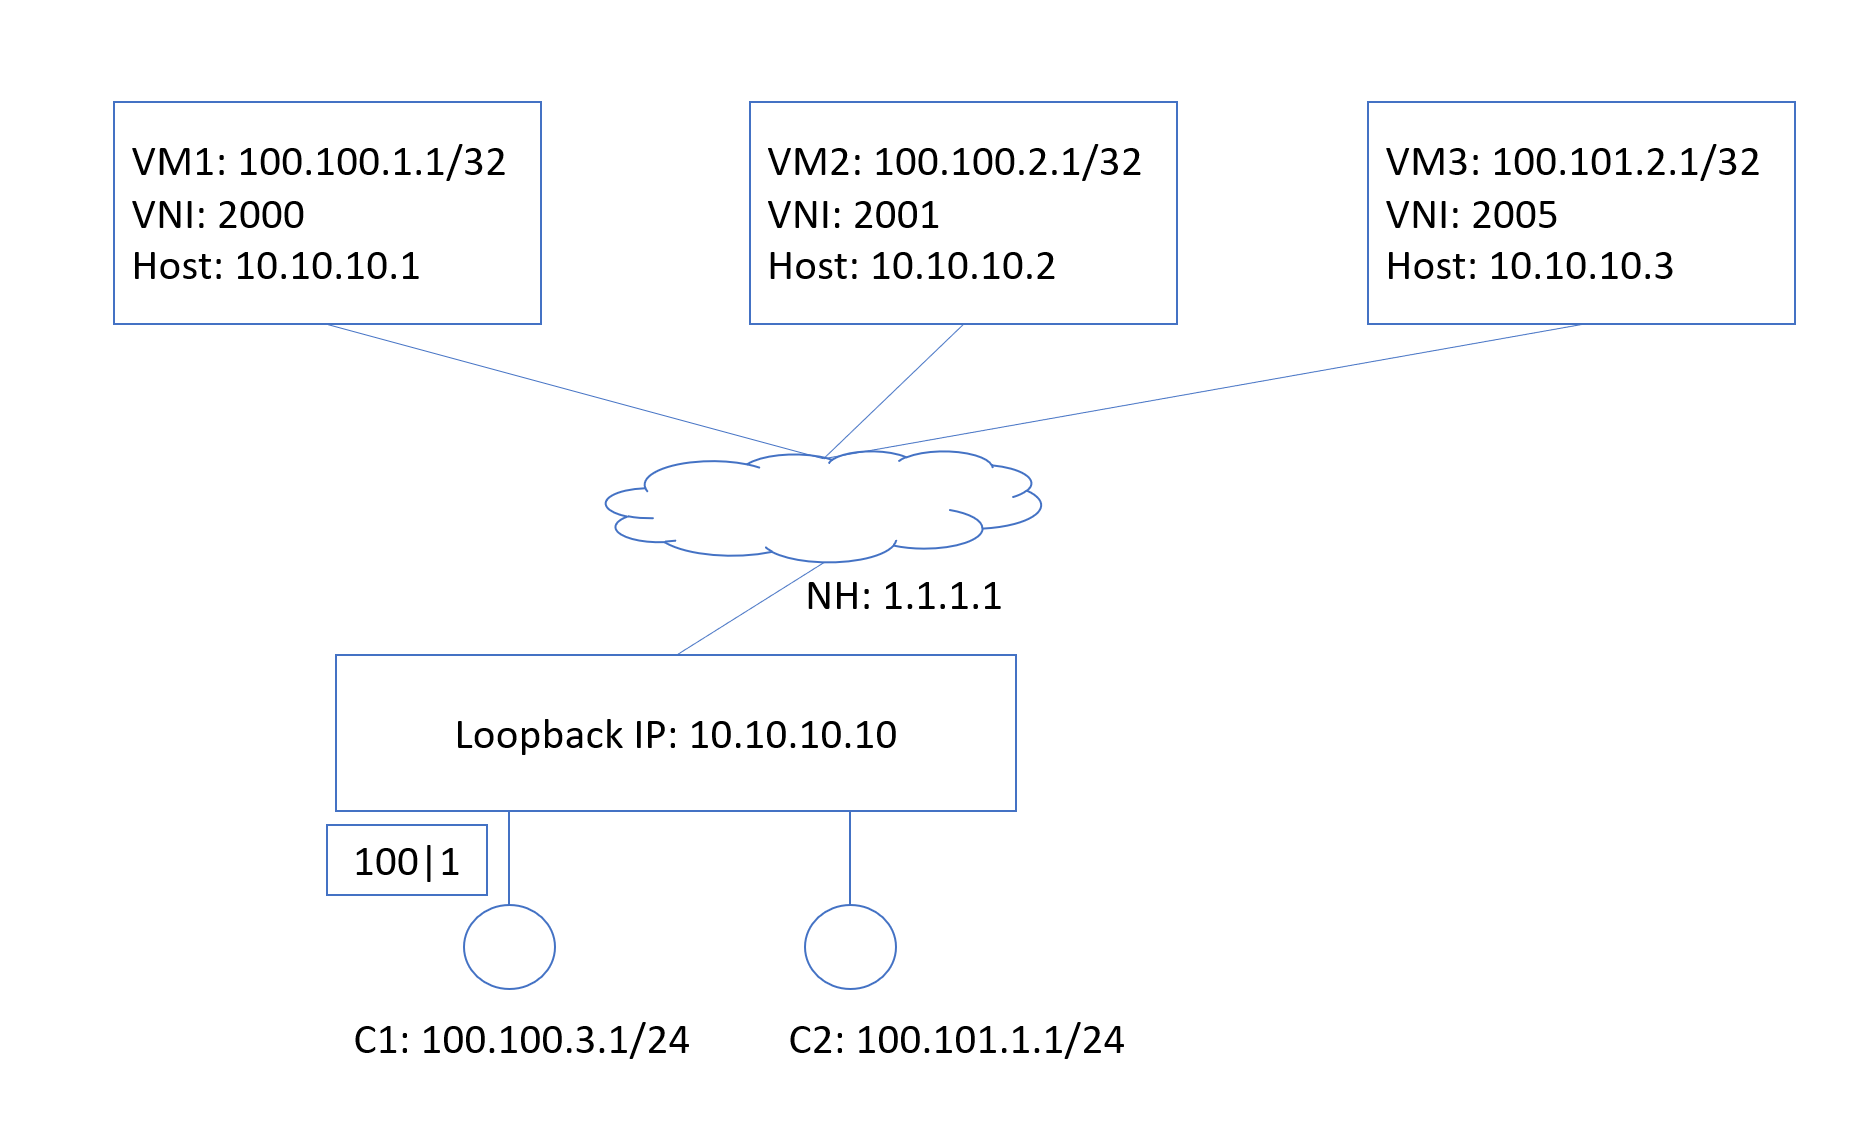
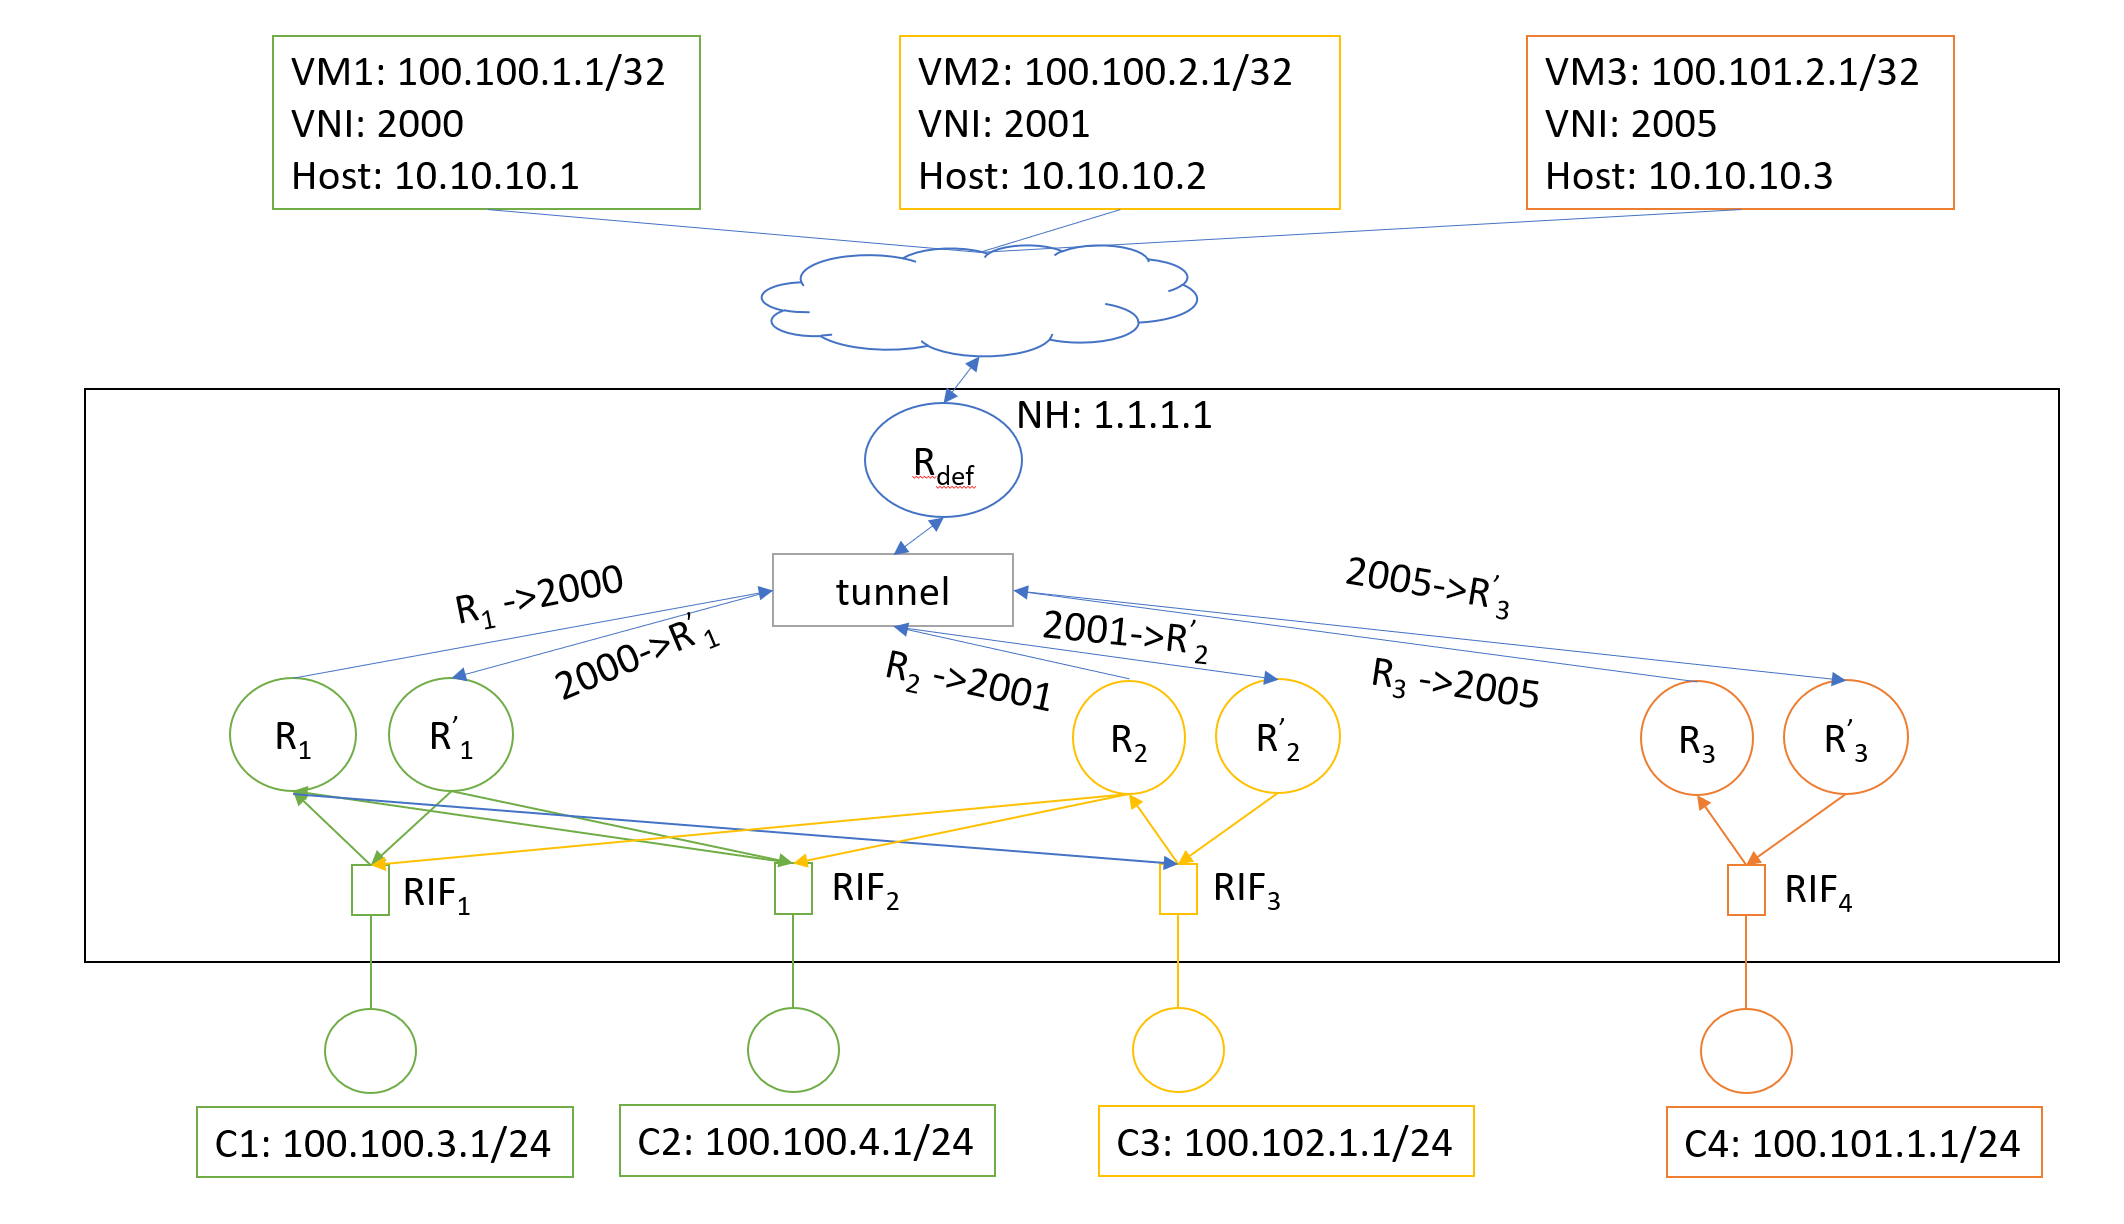
separating ingress and egress vrf for vnet

diff --git a/doc/SAI-Proposal-QinQ-VXLAN.md b/doc/SAI-Proposal-QinQ-VXLAN.md
@@ -19,11 +19,11 @@ The SAI representation of the QinQ-VxLAN-translator router is below:
 
 ![qinq-to-vxlan](figures/qinq-to-vxlan.png "Figure 2: QinQ to VxLAN usage scenario")
 __Figure 1: QinQ to VxLAN usage scenario__
- 
+
 The packet processing pipeline is below:
 ![qinq-to-vxlan-pipeline](figures/qinq-to-vxlan-pipeline.png "Figure 2: QinQ to VxLAN SAI Pipeline")
 __Figure 2: QinQ to VxLAN SAI Pipeline__
- 
+
 ## Packet Format ##
 
 - QinQ -> vxlan: For the vxlan packet , the inner L2 header is a dummy header without vlan header.
@@ -38,7 +38,7 @@ __Figure 2: QinQ to VxLAN SAI Pipeline__
    typedef enum _sai_switch_attr_t
    {
        ...
-       
+
        /**
         * @brief TPID for Outer vlan id
         *
@@ -47,7 +47,7 @@ __Figure 2: QinQ to VxLAN SAI Pipeline__
         * @default 0x88a8
         */
        SAI_SWITCH_ATTR_TPID_OUTER_VLAN;
-       
+
        /**
         * @brief TPID for Inner vlan id
         *
@@ -56,7 +56,7 @@ __Figure 2: QinQ to VxLAN SAI Pipeline__
         * @default 0x8100
         */
        SAI_SWITCH_ATTR_TPID_INNER_VLAN;
-       
+
    } sai_switch_attr_t;
 ```
 
@@ -66,7 +66,7 @@ __Figure 2: QinQ to VxLAN SAI Pipeline__
     typedef enum _sai_router_interface_type_t
     {
         ...
-        
+
         /** QinQ Router Interface Type */
         SAI_ROUTER_INTERFACE_TYPE_QINQ_PORT;
     } sai_router_interface_type_t;
@@ -103,7 +103,7 @@ __Figure 2: QinQ to VxLAN SAI Pipeline__
     typedef enum _sai_tunnel_map_type_t
     {
         ...
-        
+
         /** TUNNEL Map VNI to Virtual Router ID */
         SAI_TUNNEL_MAP_TYPE_VNI_TO_VIRTUAL_ROUTER_ID = 0x00000006,
 
@@ -140,27 +140,35 @@ __Figure 2: QinQ to VxLAN SAI Pipeline__
 ```
 ## Examples
 
-### QinQ to Vxlan example
+### Baremetal example
 
-We have customer 1 (C1) server (100.100.3.1/24) with outer vlan 100 and inner vlan tag 1 want to 
-talk to VM1 (100.100.1.1/32) and VM2 (100.100.2.1/32). VM1 is in host
-10.10.10.1 and VM2 is in host 10.10.10.2. VM1 is in VXLAN id 2000 and 
-VM2 is in VXLAN id 2001. We have customer 2 (C2) server (100.101.1.1/24) wants to talk to 
+We have customer 1 (C1) server (100.100.3.1/24) and (C2) (100.100.4.1/24)
+talk to VM1 (100.100.1.1/32). VM1 is in host 10.10.10.1 with VXLAN id 2000.
+
+We have customer 3 (C3) server (100.102.1.1/24) talk to VM2 (100.100.2.1/32). 
+VM2 is in host 10.10.10.2 with VXLAN id 2001.
+
+We have customer 4 (C4) server (100.101.1.1/24) wants to talk to
 VM3 (100.101.2.1/32). VM3 is in host 10.10.10.3 with VXLAN id 2005.
 
-When we use riot VXLAN tunnel, the default inner destination mac in the 
+VXLAN 2000 and VXLAN id 2001 are peering with each other, so that C1 and C2 can 
+also talk to C3 and VM2, and vice verse.
+
+When we use riot VXLAN tunnel, the default inner destination mac in the
 tunnel encap is the ```SAI_SWITCH_ATTR_VXLAN_DEFAULT_ROUTER_MAC```, e.g, "00:11:11:11:11:11"
 
-To reach VM1 from C1, the switch needs to encap the packet with 
-outer IP 10.10.10.1 and VXLAN id 2000. To reach VM2, the switch needs to encap the packet with 
-outer IP 10.10.10.2 with VXLAN id 2001. For VM2, it we also need to specify
-the inner destination mac "00:12:34:56:78:9a". To reach VM3 from C2, the switch
+To reach VM1 from C1, the switch needs to encap the packet with
+outer IP 10.10.10.1 and VXLAN id 2000. To reach VM2 for C1, the switch needs to encap the packet with
+outer IP 10.10.10.2 with VXLAN id 2001. For VM2, we also need to specify
+the inner destination mac "00:12:34:56:78:9a". To reach VM3 from C4, the switch
 needs to encap packet with outer IP 10.10.10.3 and VXLAN id 2005.
 
 To reach C1 from VM1 and VM2, VM host will send VXLAN packet
 with VXLAN id 2000. The switch will decap the packet, using the VXLAN id 2000
-to map to the currect virtual router and then lookup the inner destination IP
-(100.100.3.1/24). To reach C2 from VM3, VM host will send VXLAN packet
+to map to virtual router R1' and then lookup the inner destination IP
+(100.100.3.1/24). To reach C3 from VM1 and VM2, VM host will send VXLAN id 2001.
+The swithc will decap the packet, using VXLAN id 2001 to map to virtual router R2' and then
+lookup the inner destination IP. To reach C4 from VM3, VM host will send VXLAN packet
 with VXLAN id 2005.
 
 
@@ -172,68 +180,102 @@ switch_attr.id = SAI_SWITCH_ATTR_VXLAN_DEFAULT_ROUTER_MAC;
 switch_attr.value.mac = "00:11:11:11:11:11";
 sai_switch_api->set_switch_attribute(switch_id, &switch_attr);
 
-sai_attribute_t switch_attr;
 switch_attr.id = SAI_SWITCH_ATTR_VXLAN_DEFAULT_PORT;
 switch_attr.value.u16 = 12345;
 sai_switch_api->set_switch_attribute(switch_id, &switch_attr);
 
 /*
- * Setup underlay default route, the nexthop is 1.1.1.1 
+ * Setup underlay default route, the nexthop is 1.1.1.1
  */
-status = create_route("0.0.0.0/0", default_virtual_route, "1.1.1.1");
+status = create_route("0.0.0.0/0", default_vrid, "1.1.1.1");
 
 /*
  * Setup overlay route
  */
 
 /* create virtual router for C1 */
-create_virtual_router(&virtual_router_id_1);
+create_vrid(&vrid_1_ingress);
+create_vrid(&vrid_1_egress);
 
-/* create virtual router for C2 */
-create_virtual_router(&virtual_router_id_2);
+/* create virtual router for C3 */
+create_vrid(&vrid_2_ingress);
+create_vrid(&vrid_2_egress);
 
-/* create qinq router interface for C1 */
-status = create_router_interface_qinq(virtual_router_id_1, 100, 1, &rif_1);
+/* create virtual router for C4 */
+create_vrid(&vrid_3_ingress);
+create_vrid(&vrid_3_egress);
+
+/* create port-based router interface for C1 */
+status = create_router_interface_port(vrid_1_ingress, port_id_1, &rif_1);
+status = create_neighbor("100.100.3.1", rif_1, "00:00:00:00:00:01");
 
 /* create port-based router interface for C2 */
-status = create_router_interface_port(virtual_router_id_2, port_id, &rif_2)
+status = create_router_interface_port(vrid_1_ingress, port_id_2, &rif_2);
+status = create_neighbor("100.100.4.1", rif_2, "00:00:00:00:00:02");
 
-/* create tunnel */
-status = create_tunnel(virtual_router_id_1, 2000, &tunnel_id, &tunnel_encap_map_id, &tunnel_decap_map_id);
+/* create port-based router interface for C3 */
+status = create_router_interface_port(vrid_2_ingress, port_id_3, &rif_3);
+status = create_neighbor("100.102.1.1", rif_3, "00:00:00:00:00:03");
 
-/* add tunnel map entry */
-status = create_encap_tunnel_map_entry(tunnel_encap_map_id, virtual_router_id_2, 2005);
-status = create_decap_tunnel_map_entry(tunnel_decap_map_id, virtual_router_id_2, 2005);
+/* create port-based router interface for C4 */
+status = create_router_interface_port(vrid_3_ingress, port_id_4, &rif_4);
+status = create_neighbor("100.101.1.1", rif_4, "00:00:00:00:00:04");
+
+/* create tunnel with tunnel map for C1 and C2 */
+status = create_tunnel(vrid_1_ingress, vrid_1_egress, 2000, &tunnel_id, &tunnel_encap_map_id, &tunnel_decap_map_id);
+
+/* add tunnel map entry for C3 */
+status = create_encap_tunnel_map_entry(tunnel_encap_map_id, vrid_2_ingress, 2001);
+status = create_decap_tunnel_map_entry(tunnel_decap_map_id, vrid_2_egress, 2001);
+
+/* add tunnel map entry for C4 */
+status = create_encap_tunnel_map_entry(tunnel_encap_map_id, vrid_3_ingress, 2005);
+status = create_decap_tunnel_map_entry(tunnel_decap_map_id, vrid_3_egress, 2005);
 
 /* create tunnel decap for VM to customer server */
 status = create_tunnel_termination(tunnel_id, "10.10.10.10", &term_table_id);
 
 /* create tunnel nexthop for VM1, VM2 and VM3 */
-status = create_nexthop_tunnel(virtual_router_id_1, "10.10.10.1", 0, NULL, tunnel_id, &nexthop_id_1);
-status = create_nexthop_tunnel(virtual_router_id_1, "10.10.10.2", 2001, "00:12:34:56:78:9a", tunnel_id, &nexthop_id_2);
-status = create_nexthop_tunnel(virtual_router_id_2, "10.10.10.3", 0, NULL, tunnel_id, &nexthop_id_3);
+status = create_nexthop_tunnel("10.10.10.1", 0, NULL, tunnel_id, &nexthop_id_1);
+status = create_nexthop_tunnel("10.10.10.2", 2001, "00:12:34:56:78:9a", tunnel_id, &nexthop_id_2);
+status = create_nexthop_tunnel("10.10.10.3", 0, NULL, tunnel_id, &nexthop_id_3);
 
-/* create routes for VM1, VM2 and VM3 */
-status = create_route("100.100.1.1/32", virtual_router_id_1, nexthop_id_1);
-status = create_route("100.100.2.1/32", virtual_router_id_1, nexthop_id_2);
-status = create_route("100.101.2.1/32", virtual_router_id_2, nexthop_id_3);
+/* create routes for vrid 1 ingress */
+status = create_route("100.100.1.1/32", vrid_1_ingress, nexthop_id_1);
+status = create_route("100.100.2.1/32", vrid_1_ingress, nexthop_id_2);
+status = create_route("100.100.3.0/24", vrid_1_ingress, rif_1);
+status = create_route("100.100.4.0/24", vrid_1_ingress, rif_2);
+status = create_route("100.102.1.0/24", vrid_1_ingress, rif_3);
 
-/* create the route to the customer C1 */
-status = create_route("100.100.3.0/24", virtual_router_id_1, rif_1);
-status = create_neighbor("100.100.3.1", rif_1, "00:00:00:00:00:01");
+/* create routes for vrid 1 egress */
+status = create_route("100.100.3.0/24", vrid_1_egress, rif_1);
+status = create_route("100.100.4.0/24", vrid_1_egress, rif_2);
 
-/* create the route to the customer C2 */
-status = create_route("100.101.1.0/24", virtual_router_id_2, rif_2);
-status = create_neighbor("100.101.1.1", rif_2, "00:00:00:00:00:02");
+/* create routes for vrid 2 ingress */
+status = create_route("100.100.1.1/32", vrid_1_ingress, nexthop_id_1);
+status = create_route("100.100.2.1/32", vrid_1_ingress, nexthop_id_2);
+status = create_route("100.100.3.0/24", vrid_1_ingress, rif_1);
+status = create_route("100.100.4.0/24", vrid_1_ingress, rif_2);
+status = create_route("100.102.1.0/24", vrid_1_ingress, rif_3);
+
+/* create routes for vrid 2 egress */
+status = create_route("100.102.1.0/24", vrid_1_egress, rif_3);
+
+/* create routes fro vrid 3 ingress */
+status = create_route("100.101.2.1/32", vrid_3_ingress, nexthop_id_3);
+status = create_route("100.101.1.0/24", vrid_1_ingress, rif_4);
+
+/* create routes for vrid 3 egress */
+status = create_route("100.101.1.0/24", vrid_1_egress, rif_4);
 ```
 
 Create QinQ router interface
 
 ```
 sai_status_t create_router_interface_qinq(
-    sai_object_id_t overlay_router_id, 
-    uint32_t out_vlan, 
-    uint32_t in_vlan, 
+    sai_object_id_t overlay_router_id,
+    uint32_t out_vlan,
+    uint32_t in_vlan,
     sai_object_id_t *router_intf)
 {
     sai_status_t status;
@@ -261,7 +303,7 @@ Create port-based router interface
 
 ```
 sai_status_t create_router_interface_port(
-    sai_object_id_t overlay_router_id, 
+    sai_object_id_t overlay_router_id,
     sai_object_id_t port_id,
     sai_object_id_t *router_intf)
 {
@@ -304,7 +346,7 @@ sai_object_id_t create_encap_tunnel_map()
 
 sai_object_id_t create_encap_tunnel_map_entry(
     sai_object_id_t tunnel_map_id,
-    sai_object_id_t router_id, 
+    sai_object_id_t router_id,
     sai_uint32_t vni)
 {
     sai_status_t status;
@@ -346,10 +388,10 @@ sai_object_id_t create_decap_tunnel_map()
 
     return tunnel_map_id;
 }
-    
+
 sai_object_id_t create_decap_tunnel_map_entry(
     sai_object_id_t tunnel_map_id,
-    sai_object_id_t router_id, 
+    sai_object_id_t router_id,
     sai_uint32_t vni)
 {
     sai_status_t status;
@@ -382,8 +424,9 @@ Create tunnel
 
 ```
 sai_status_t create_tunnel(
-    sai_object_id_t overlay_id,
-    sai_uint32_t vni, 
+    sai_object_id_t ingress_router_id,
+    sai_object_id_t egress_outer_id,
+    sai_uint32_t vni,
     sai_object_id_t *tunnel_id,
     sai_object_id_t *tunnel_encap_map_id,
     sai_object_id_t *tunnel_decap_map_id)
@@ -396,31 +439,25 @@ sai_status_t create_tunnel(
   attr.value.s32 = SAI_TUNNEL_TYPE_VXLAN;
   tunnel_attrs.push_back(attr);
 
-  sai_tunnel_map_list_t encap_list;
-  sai_tunnel_map_list_t decap_list;
-  sai_tunnel_map_t encap_map;
-  sai_tunnel_map_t decap_map;
-
   *tunnel_encap_map_id = create_encap_tunnel_map();
-  *tunnel_decap_map_id = create_decap_tunnel_map();
 
-  create_encap_tunnel_map_entry(*tunnel_encap_map_id, router_id, vni);
-  create_decap_tunnel_map_entry(*tunnel_decap_map_id, vni, router_id);
-
-  // encap ecn mode (copy from outer/standard)
-  attr.id = SAI_TUNNEL_ATTR_ENCAP_ECN_MODE;
-  attr.value.s32 = SAI_TUNNEL_ENCAP_ECN_MODE_USER_DEFINED;
-  tunnel_attrs.push_back(attr);
+  create_encap_tunnel_map_entry(*tunnel_encap_map_id, ingress_router_id, vni);
 
   attr.id = SAI_TUNNEL_ATTR_ENCAP_MAPPERS;
   attr.value.tunnelmap = { *tunnel_encap_map_id };
   tunnel_attrs.push_back(attr);
 
-  attr.id = SAI_TUNNEL_ATTR_DECAP_ECN_MODE;
-  attr.value.s32 = SAI_TUNNEL_DECAP_ECN_MODE_USER_DEFINED; //SAI_TUNNEL_DECAP_ECN_MODE_COPY_FROM_OUTER;
-  tunnel_attrs.push_back(attr);
+  *tunnel_decap_map_id = create_decap_tunnel_map();
+
+  create_decap_tunnel_map_entry(*tunnel_decap_map_id, vni, egress_router_id);
+
   attr.id = SAI_TUNNEL_ATTR_DECAP_MAPPERS;
   attr.value.tunnelmap = { *tunnel_decap_map_id };
+  tunnel_attrs.push_back(attr);
+
+  // source ip
+  attr.id = SAI_TUNNEL_ATTR_ENCAP_SRC_IP;
+  attr.value.ip_address = "10.10.10.10";
   tunnel_attrs.push_back(attr);
 
   // ttl mode (uniform/pipe)
@@ -443,11 +480,10 @@ Create nexthop for the tunnel interface
 
 ```
 sai_status_t create_nexthop_tunnel(
-    sai_object_id_t router_id, 
-    sai_ip4_t host_ip, 
+    sai_ip4_t host_ip,
     sai_uint32_t vni, // optional vni
     sai_mac_t mac, // inner destination mac
-    sai_object_id_t tunnel_id, 
+    sai_object_id_t tunnel_id,
     sai_object_id_t *next_hop_id)
 {
   vector<sai_attribute_t> next_hop_attrs;
@@ -481,7 +517,7 @@ sai_status_t create_nexthop_tunnel(
   }
 
 
-  sai_status_t status = sai_next_hop_api->create_next_hop(next_hop_id, router_id, next_hop_attrs.size(), next_hop_attrs.data());
+  sai_status_t status = sai_next_hop_api->create_next_hop(next_hop_id, next_hop_attrs.size(), next_hop_attrs.data());
   return status;
 }
 ```
@@ -490,9 +526,9 @@ Create route
 
 ```
 sai_status_t create_route(
-    sai_ip4_t ip, 
-    sai_ip4_t mask, 
-    sai_object_id_t vrf_id, 
+    sai_ip4_t ip,
+    sai_ip4_t mask,
+    sai_object_id_t vrf_id,
     sai_object_id_t nexthop_id)
 {
   sai_status_t status;
